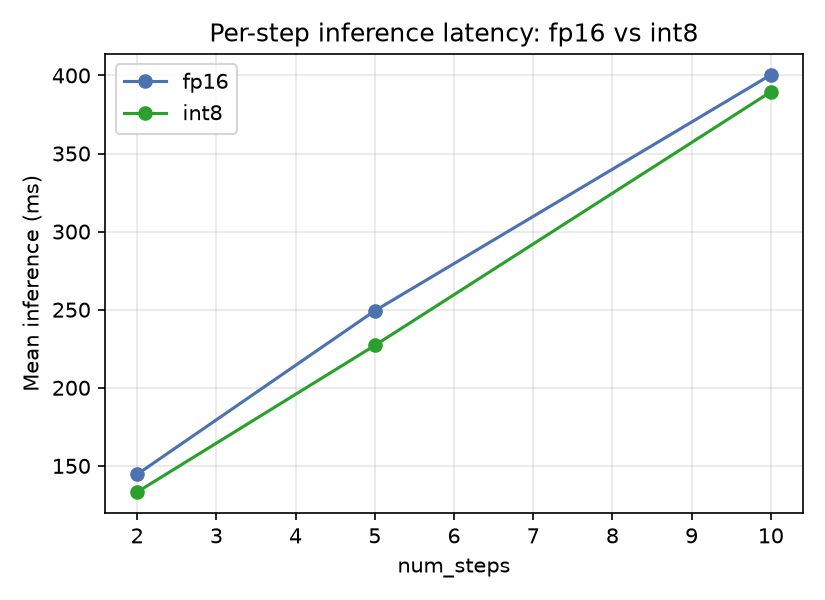
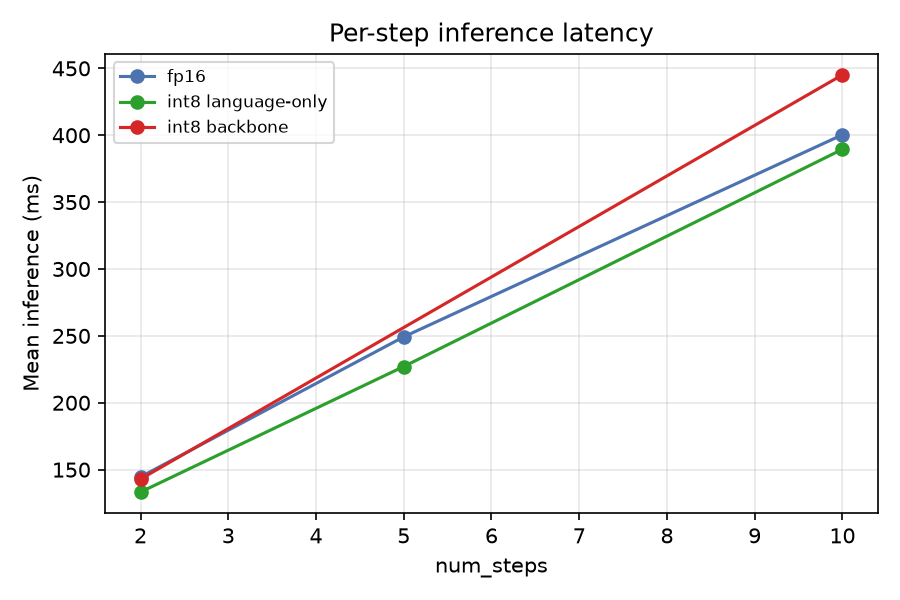
evidence: add quantization scope ablation (int8 language-only vs backbone)

diff --git a/evidence/latest/pc_local/int4/README.md b/evidence/latest/pc_local/int4/README.md
@@ -21,6 +21,8 @@
 | fp16 基线 | 2 | 72.0% |
 | int8 语言-only | 10 | 78.0% |
 | int8 语言-only | 2 | 80.0% |
+| int8 全背干 | 10 | 78.0% |
+| int8 全背干 | 2 | 78.0% |
 
 单集冒烟（1 集/任务）：int4 全背干 30%、int4 语言-only 10%、int8 语言-only 100%。
 
@@ -29,15 +31,17 @@
 | 精度 | num_steps | mean ms | p95 ms | 权重内存 MB | 峰值显存 MB |
 | --- | --- | --- | --- | --- | --- |
 | fp16 | 10 | 400.4 | 612.1 | 1217.9 | 1280.8 |
-| int8 | 10 | 389.5 | 404.3 | 929.4 | 992.9 |
+| int8 语言-only | 10 | 389.5 | 404.3 | 929.4 | 992.9 |
+| int8 全背干 | 10 | 445.1 | 558.1 | 835.9 | 962.8 |
 | fp16 | 2 | 144.6 | 189.4 | 1217.9 | 1280.8 |
-| int8 | 2 | 133.3 | 149.2 | 929.4 | 992.9 |
+| int8 语言-only | 2 | 133.3 | 149.2 | 929.4 | 992.9 |
+| int8 全背干 | 2 | 142.9 | 148.5 | 835.9 | 962.8 |
 
 ## 结论
 
 1. 均匀 4-bit PTQ 对 SmolVLA 不成立：全背干 30%、语言-only 10%（单集冒烟）。
-2. int8 语言-only 量化保住并略提升成功率（78%/80% vs fp16 72%），同时权重内存 −23.7%、峰值显存 −22.5%、推理延迟略降。
-3. num_steps=2 与 int8 正交叠加，形成“少步数 × 8-bit 量化”的组合最优。
+2. int8 两种范围都保住并略提升成功率（78-80% vs fp16 72%）。语言-only：权重内存 −23.7%、峰值显存 −22.5%、延迟略降；全背干：权重内存 −31.4%、峰值显存 −24.8%，ns10 延迟略升、ns2 基本持平。
+3. num_steps=2 与 int8 正交叠加，形成“少步数 × 8-bit 量化”的组合最优；报告可进一步讨论“语言-only 换速度 vs 全背干换内存”的消融权衡。
 
 ## 数据文件
 

diff --git a/evidence/latest/CURRENT_PROGRESS.md b/evidence/latest/CURRENT_PROGRESS.md
@@ -37,10 +37,10 @@ This folder is the only retained experiment evidence for the current project dir
 
 - Harness: PC-local official `lerobot-eval` through the `smolvla_int4` LeRobot plugin.
 - Method: self-contained per-group weight quantization of the SmolVLA language transformer.
-- int8 language-only (5 ep/task): 10 steps 78.0%, 2 steps 80.0% vs fp16 72.0%.
+- int8 language-only (5 ep/task): 10 steps 78.0%, 2 steps 80.0%; int8 backbone: 10 steps 78.0%, 2 steps 78.0% (vs fp16 72.0%).
 - Negative result: uniform 4-bit PTQ degrades success (backbone 30%, language-only 10%, single-ep smoke).
-- Memory: weights 1217.9 -> 929.4 MB (-23.7%); peak VRAM 1280.8 -> 992.9 MB (-22.5%).
-- Latency: int8 is slightly faster than fp16 at every num_steps; ns2 mean 133ms.
+- Memory: language-only weights -23.7% / peak -22.5%; backbone weights -31.4% / peak -24.8%.
+- Latency: language-only is slightly faster than fp16; backbone is comparable at ns2 and slightly slower at ns10.
 - Records: `pc_local/int4/quant_summary.csv`, `quant_bench.csv`, and figures.
 
 ## Retained Operational Path
